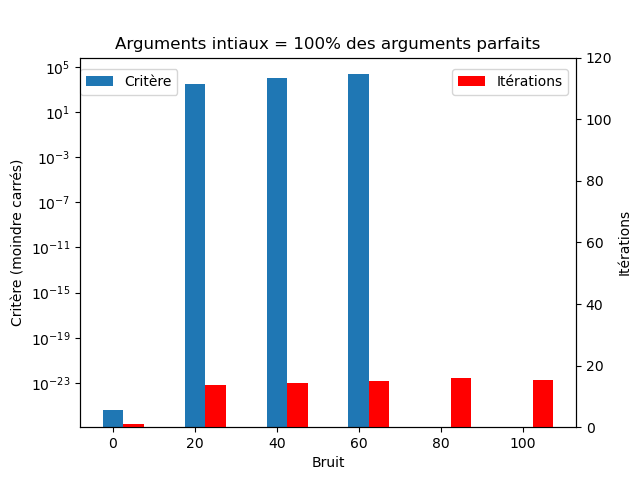
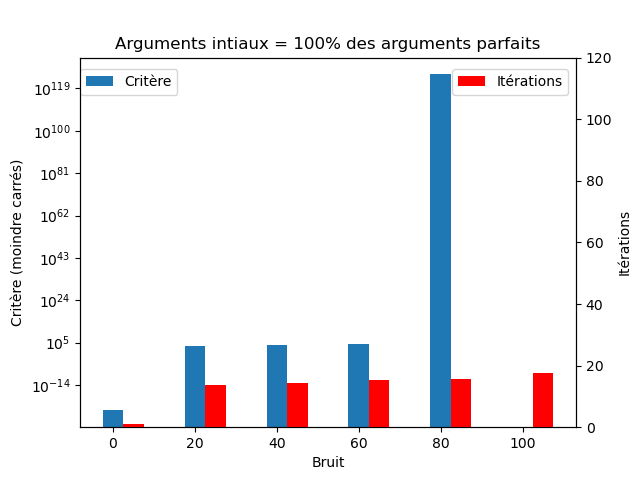
galères sur les illustrations

diff --git a/python/test_functions.py b/python/test_functions.py
@@ -379,6 +379,8 @@ def testPerf_NoisedData(perfect_args, noise_steps = 8, noise_dt = 25, argsDelta_
     perfect_args                            = np.array(perfect_args)
 
     # all levels of noise to be tested...
+    n_dt            = noise_dt
+    noise_dt        = n_dt * Qmax_perfect
     noise_levels    = [ k * noise_dt for k in range( 0, noise_steps+1, 1) ]
     
     # all values of args to be tested...
@@ -438,7 +440,8 @@ def testPerf_NoisedData(perfect_args, noise_steps = 8, noise_dt = 25, argsDelta_
     plt.close()
     
     # width of the bars
-    w               = max(noise_levels)/(2*2*noise_steps)
+    w               = (n_dt * noise_steps) / (2*1.5*noise_steps)
+    # w               = max(noise_levels)/(2*2*noise_steps)
     for i in range(0,argsDelta_steps+1,1):
         # variation of the perfect args we are testing (percentage)... 
         delta       = round(i * argsDelta_dt * 100)
@@ -453,7 +456,147 @@ def testPerf_NoisedData(perfect_args, noise_steps = 8, noise_dt = 25, argsDelta_
         fig, ax1 = plt.subplots()
             
         # creating two arrays with a slight offset to plot bars separatly...
-        bar1    = noise_levels
+        bar1    = [ k * n_dt for k in range(0, noise_steps + 1, 1)]
+        bar2    = [x+w for x in bar1]
+
+        # plotting the time and criterion values for the different levels of noise...
+        ax2     = ax1.twinx()
+        ax1.bar(bar1, criterions, label='Critère', width = w)
+        ax2.bar(bar2, iters, color='r', label='Itérations', width = w)
+        # ax2.bar(bar2, times, color='r', label='Temps (s)', width = w)
+        
+        # Definign the window ...
+        # ax1.set_ylim([ 0, 1.2*max_criterion])  # results vary a lot, making the smaller ones invisible
+        # ax1.set_yscale('log')                  # wich is why we will be using a logarithmic scale
+        # ax2.set_ylim([ 0, 1.2*Niter])
+        # ax2.set_ylim([ 0, 1.2*max_time])
+        
+        # legending the graph...
+        ax1.set_xlabel(r'Bruit ($\sigma$) = pourcentage de $S_{max}^{init}$')
+        ax1.set_ylabel('Critère (moindre carrés)')
+        ax2.set_ylabel('Itérations (maximum = 100)')
+        
+        # ticks 
+        # ax2.set_xticks([k for k in noise_levels])
+        # ax2.set_xticklabels(["{}".format(n * noise_dt) + r"$ * S_{max}^{init}$" for n in range(0, len(noise_levels), 1)])
+        
+        # ax1.set_xticks([])
+        # ax2.set_ylabel('Temps (secondes)')
+        
+        ax1.legend(loc=(0,0.9))
+        ax2.legend(loc=(0.75,0.9))
+        plt.title(r'Arguments intiaux = {}% des arguments parfaits'.format(str(100+delta)))
+        
+        plt.savefig("../graphes/performances/percent_noise_{}_args{}perc.png".format( noise_levels[-1], str(100+delta)))
+        plt.show()
+            
+    return time_results, criterion_results
+# ==================== test testPerf_NoisedData() =============================
+testPerf_NoisedData(perfect_args_gen, noise_steps = 10, noise_dt = 0.1, argsDelta_steps = 1, argsDelta_dt = 0.1, optiFunc = descentScaled, average_of = 1)
+# =============================================================================
+
+
+
+def testPerf_argsDelta(perfect_args, noise_steps = 8, noise_dt = 25, argsDelta_steps = 3, argsDelta_dt = 0.1, optiFunc = descentScaled, average_of = 1, Niter = 100):
+# =============================================================================
+#     monitors the optimization on generated data for different values of noise and for different initial params
+# input:
+#   perfect_args        : args of the function used to generate data
+#   noise_steps         : number of values of noise to be tested
+#   noise_dt            : amount of noise to add at each step
+#   argsDelta_steps     : number of sets of args to be tested
+#   argsDelta_dt        : percentage the init_args to add at each step
+#   optiFunc            : descent algorithm to be used for optimization
+#   average_of          : number of time we want to test the same values of noise and deltaArgs
+#   Niter               : max number of iteration to be completed by the descent algorithm
+#output:
+#   criterion_results    : criterion obtained for each level of noise and set of args tested 
+#   time_results         : time needed to complete the optimization for each level of noise and set of args tested
+# =============================================================================
+    
+    # perfect parameters : those of the sigmoide used to generate data
+    Qmax_perfect, ts_perfect, tau_perfect   = perfect_args
+    perfect_args                            = np.array(perfect_args)
+
+    # all levels of noise to be tested...
+    n_dt            = noise_dt
+    noise_dt        = n_dt * Qmax_perfect
+    noise_levels    = [ k * noise_dt for k in range( 0, noise_steps+1, 1) ]
+    
+    # all values of args to be tested...
+    args_values     = [ [(1+(k * argsDelta_dt))] * perfect_args for k in range( 0, argsDelta_steps+1, 1)]
+    
+    # for each level of noise (columns), for each value of args (lines), 
+        # we will save here : 1) the criterion obtained 2) the time taken to complete the optomization...
+    criterion_results       = np.zeros([ len(noise_levels), len(args_values)])
+    time_results            = np.zeros([ len(noise_levels), len(args_values)])
+    
+    # counts the number of iteration of the descent algorithm
+    iter_results            = np.zeros([ len(noise_levels), len(args_values)])
+    
+    # we want the average value of the criterion and execution time, because it can vary a lot for the same values of noise and argsDelta
+    for a in range(average_of):
+        
+        # Testing each level of noise...
+        for i in range ( 0, len(noise_levels), 1):
+            
+            # data to be tested...
+            data = noised_sigmoide(noise_levels[i], Qmax=Qmax_perfect, ts=ts_perfect, tau=tau_perfect)
+            
+            # Testing each value of argsDelta ...
+            for j in range ( 0, len(args_values), 1):
+                
+                # value of the args to be tested...
+                init_args           = args_values[j]
+                
+                # descent algorithm ...
+                start               = time.time()
+                # print("noise = ", noise_levels[i], "  args_values = ", args_values[j])
+                theta, F            = descentScaled(data, init_args, Niter = Niter)     
+                end                 = time.time()
+                
+                # saving the last value of the criterion and the time taken by the descent (seconds)...
+                criterion_results[i,j]   += F[-1]
+                time_results[i,j]        += end-start
+                
+                #
+                iter_results[i,j]        += len(F)
+                # print("critère = ", F[-1], "  temps d'execution = ", end-start)
+    
+    # print("crits = ",criterion_results)
+    # print("times = ",time_results)
+    
+    # calculating the average
+    for i in range ( 0, len(noise_levels), 1):
+        for j in range ( 0, len(args_values), 1):
+            criterion_results[i,j]      = criterion_results[i,j] / average_of
+            # time_results[i,j]           = time_results[i,j] / average_of
+            iter_results[i,j]           = iter_results[i,j] / average_of
+    
+    # max criterion and max time are used to standardize the scale of the plots...
+    max_criterion       = max([ max(c) for c in criterion_results])
+    # max_time            = max([ max(t) for t in time_results])
+    
+    plt.close()
+    
+    # width of the bars
+    w               = (argsDelta_dt * argsDelta_steps) / (2*1.5*argsDelta_steps)
+    # w               = max(noise_levels)/(2*2*noise_steps)
+    for i in range(0,noise_steps+1,1):
+        # level of noise we are testing (percentage)... 
+        delta       = i * noise_dt
+        # print("i= ", i, "delta= ", delta)
+        
+        # for a fixed value of init_args, variation of the final criterion 
+                # and execution time depending on the level of noise...
+        # times        = time_results[:,i]
+        criterions   = criterion_results[i,:]
+        iters        = iter_results[i,:]
+            
+        fig, ax1 = plt.subplots()
+            
+        # creating two arrays with a slight offset to plot bars separatly...
+        bar1    = [ k * argsDelta_dt for k in range(0, argsDelta_steps + 1, 1)]
         bar2    = [x+w for x in bar1]
 
         # plotting the time and criterion values for the different levels of noise...
@@ -469,23 +612,28 @@ def testPerf_NoisedData(perfect_args, noise_steps = 8, noise_dt = 25, argsDelta_
         # ax2.set_ylim([ 0, 1.2*max_time])
         
         # legending the graph...
-        ax1.set_xlabel('Bruit')
+        ax1.set_xlabel(r'''Distance d'initialisation ($a$)''')
         ax1.set_ylabel('Critère (moindre carrés)')
-        ax2.set_ylabel('Itérations')
+        ax2.set_ylabel('Itérations (maximum = 100)')
+        
+        # ticks 
+        # ax2.set_xticks([k for k in noise_levels])
+        # ax2.set_xticklabels(["{}".format(n * noise_dt) + r"$ * S_{max}^{init}$" for n in range(0, len(noise_levels), 1)])
+        
+        # ax1.set_xticks([])
         # ax2.set_ylabel('Temps (secondes)')
         
         ax1.legend(loc=(0,0.9))
         ax2.legend(loc=(0.75,0.9))
-        plt.title(r'Arguments intiaux = {}% des arguments parfaits'.format(str(100+delta)))
+        plt.title(r'Bruit ( $\sigma$ ) = {}% de '.format(delta) + r'$S_{max}^{init}$')
         
-        plt.savefig("../graphes/performances/noise_0-{}_args{}perc.png".format( noise_levels[-1], str(100+delta)))
+        plt.savefig("../graphes/performances/percent_args{}_noise_{}.png".format(argsDelta_steps * argsDelta_dt ,  delta))
         plt.show()
             
     return time_results, criterion_results
 # ==================== test testPerf_NoisedData() =============================
-# testPerf_NoisedData(perfect_args_gen, noise_steps = 5, noise_dt = 20, argsDelta_steps = 6, argsDelta_dt = 0.1, optiFunc = descentScaled, average_of = 100)
+# testPerf_argsDelta(perfect_args_gen, noise_steps = 1, noise_dt = 0.1, argsDelta_steps = 9, argsDelta_dt = 0.1, optiFunc = descentScaled, average_of = 1)
 # =============================================================================
-
 
 
 def plot_F_Data_Sigmoide(F, data, theta):
@@ -515,6 +663,10 @@ def plot_F_Data_Sigmoide(F, data, theta):
     
 
     plt.show()
+
+
+
+
 
 def opti_Country(location, optiFunc = descentScaled, savePlot = False, anticipation = 0):
 # =============================================================================
@@ -565,6 +717,10 @@ def opti_Country(location, optiFunc = descentScaled, savePlot = False, anticipat
 # print("chrono = ", chrono, "crit = ", crit)
 # =============================================================================
     
+
+
+
+
 def save_CountryPlot(country, F, data, theta, init_args, anticipation = 0):
     
     # non-cumulated data 
@@ -693,10 +849,13 @@ def save_CountryPlot(country, F, data, theta, init_args, anticipation = 0):
 # =============================================================================
 
 # ==================== Test save_countryPlot() anticipations ==================
-for a in range(5,21,5):
-    print("a = ", a)
-    opti_Country('DNK', savePlot=True, anticipation = a)
+# for a in range(5,21,5):
+#     print("a = ", a)
+#     opti_Country('DNK', savePlot=True, anticipation = a)
 # =============================================================================
+
+
+
 
 
 def test_OCDE(save=True, anticipation = 0):
